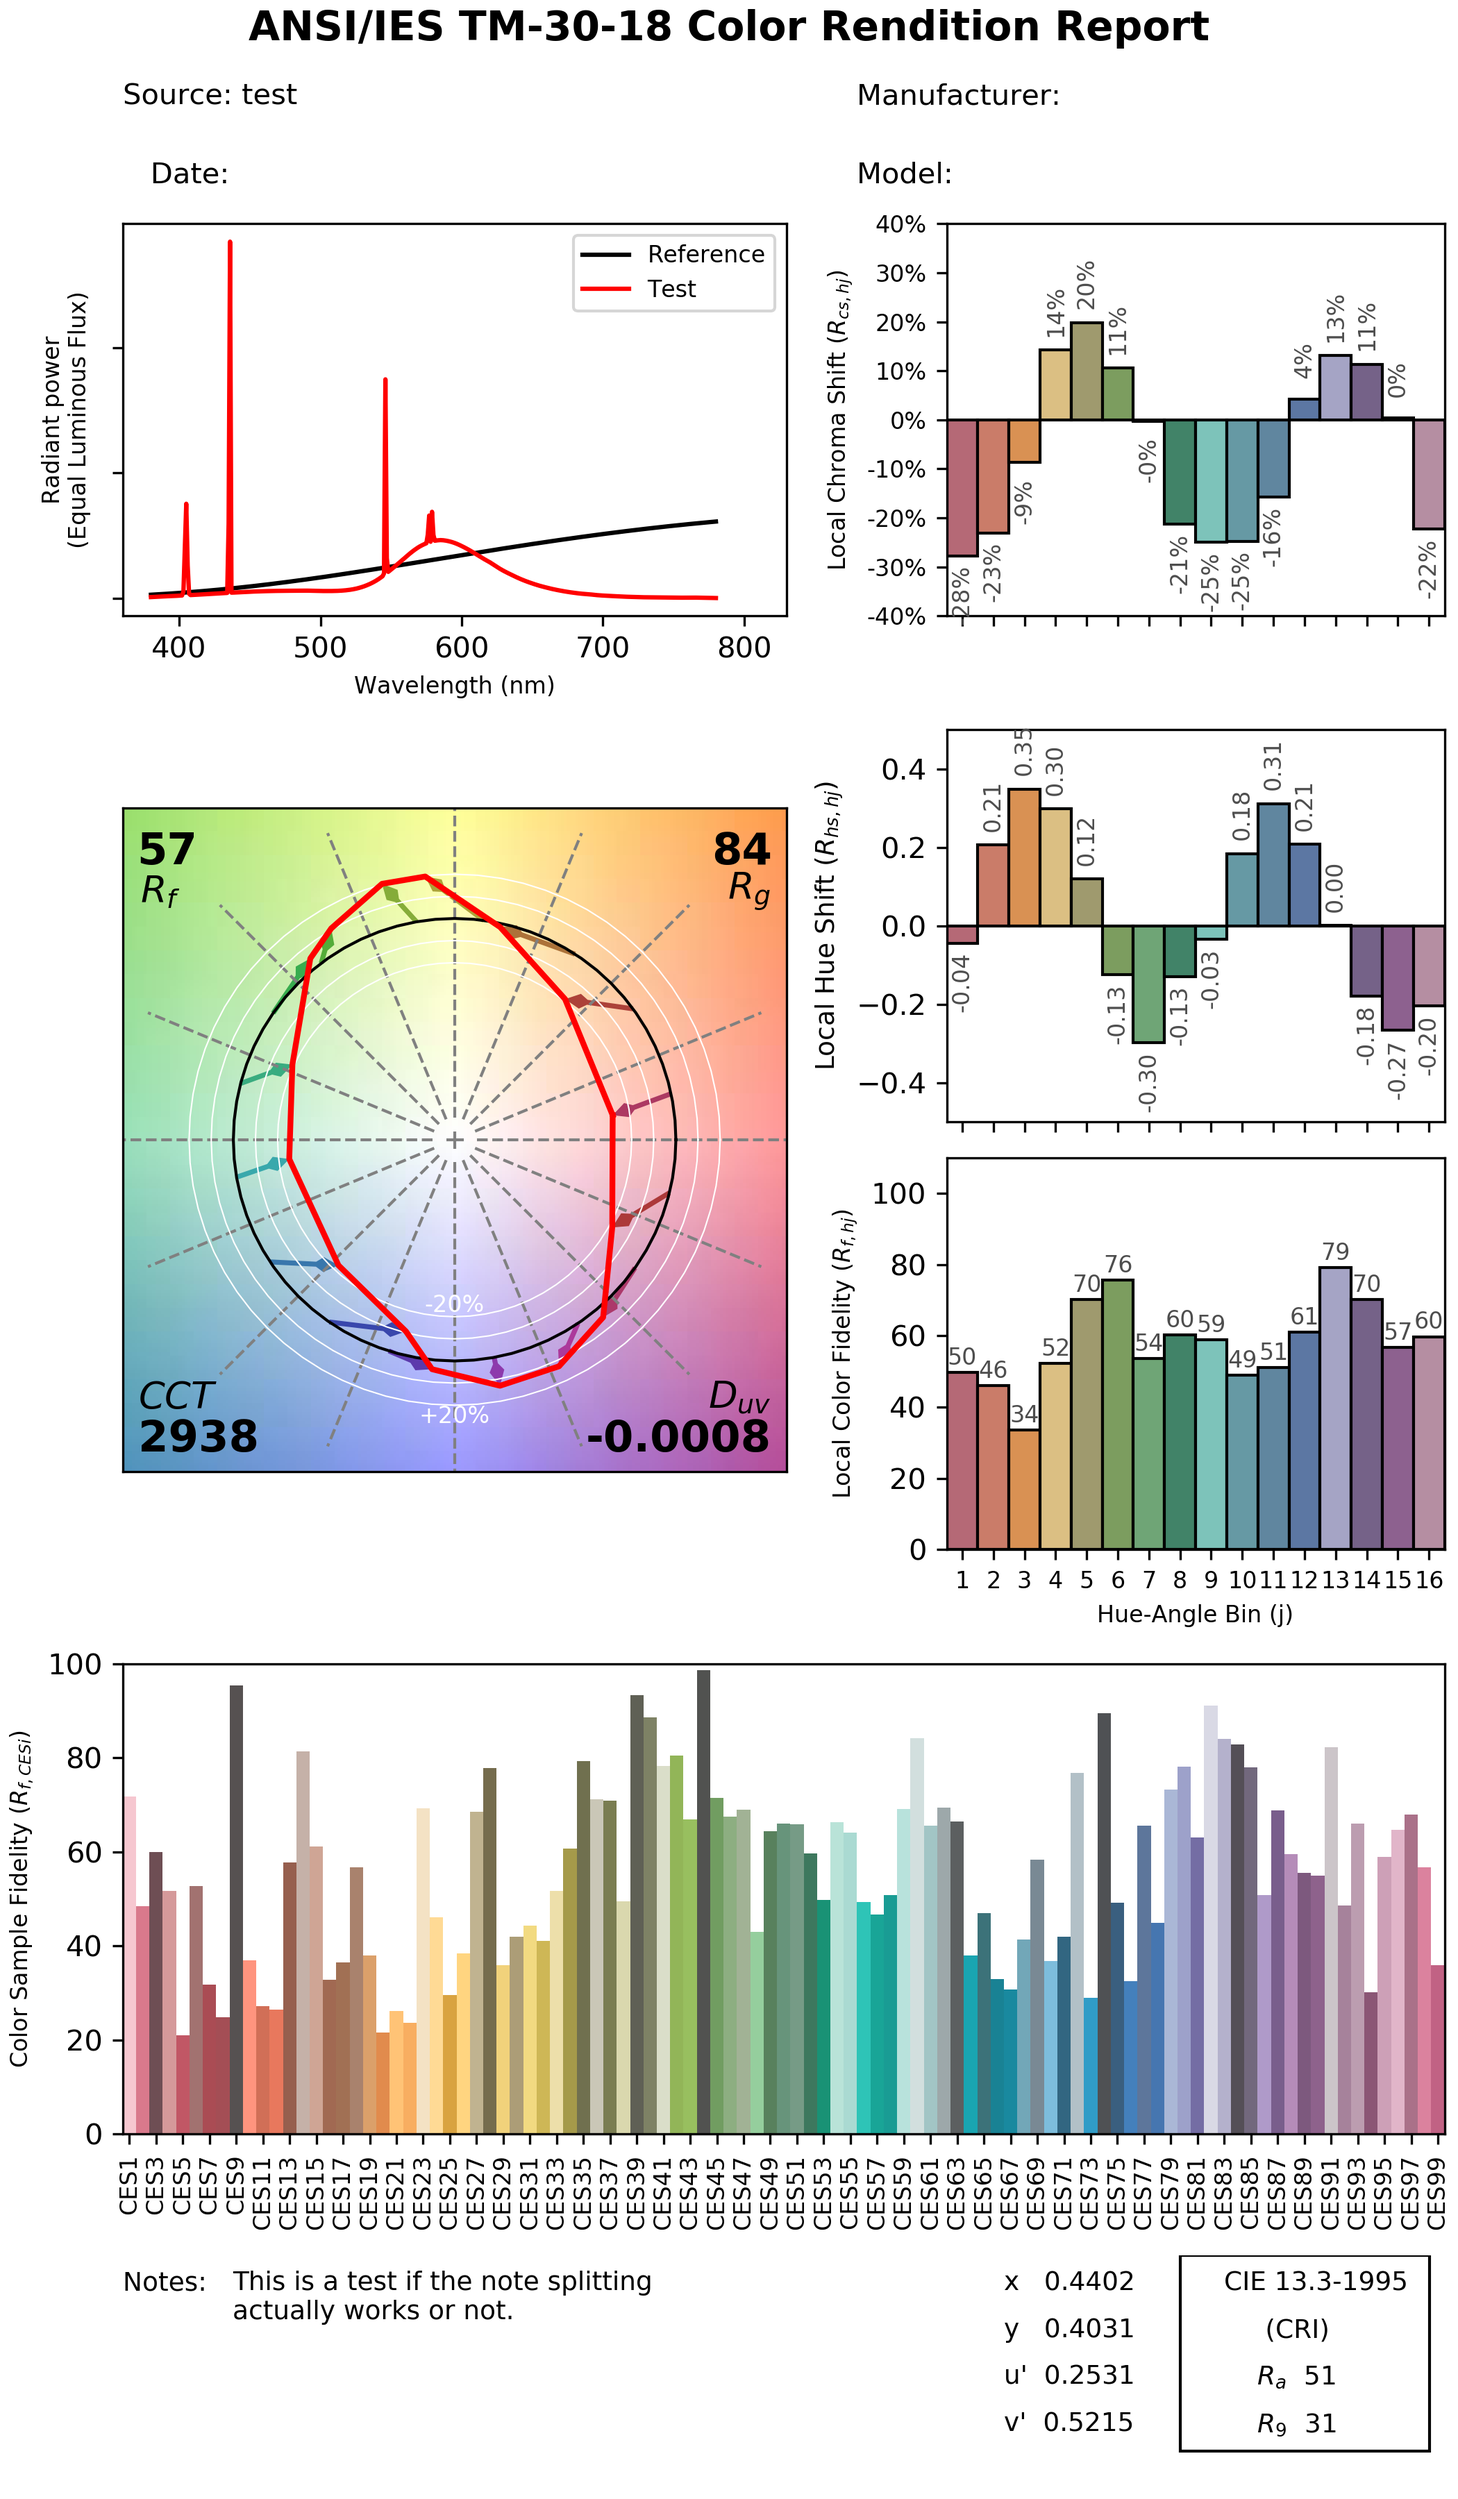
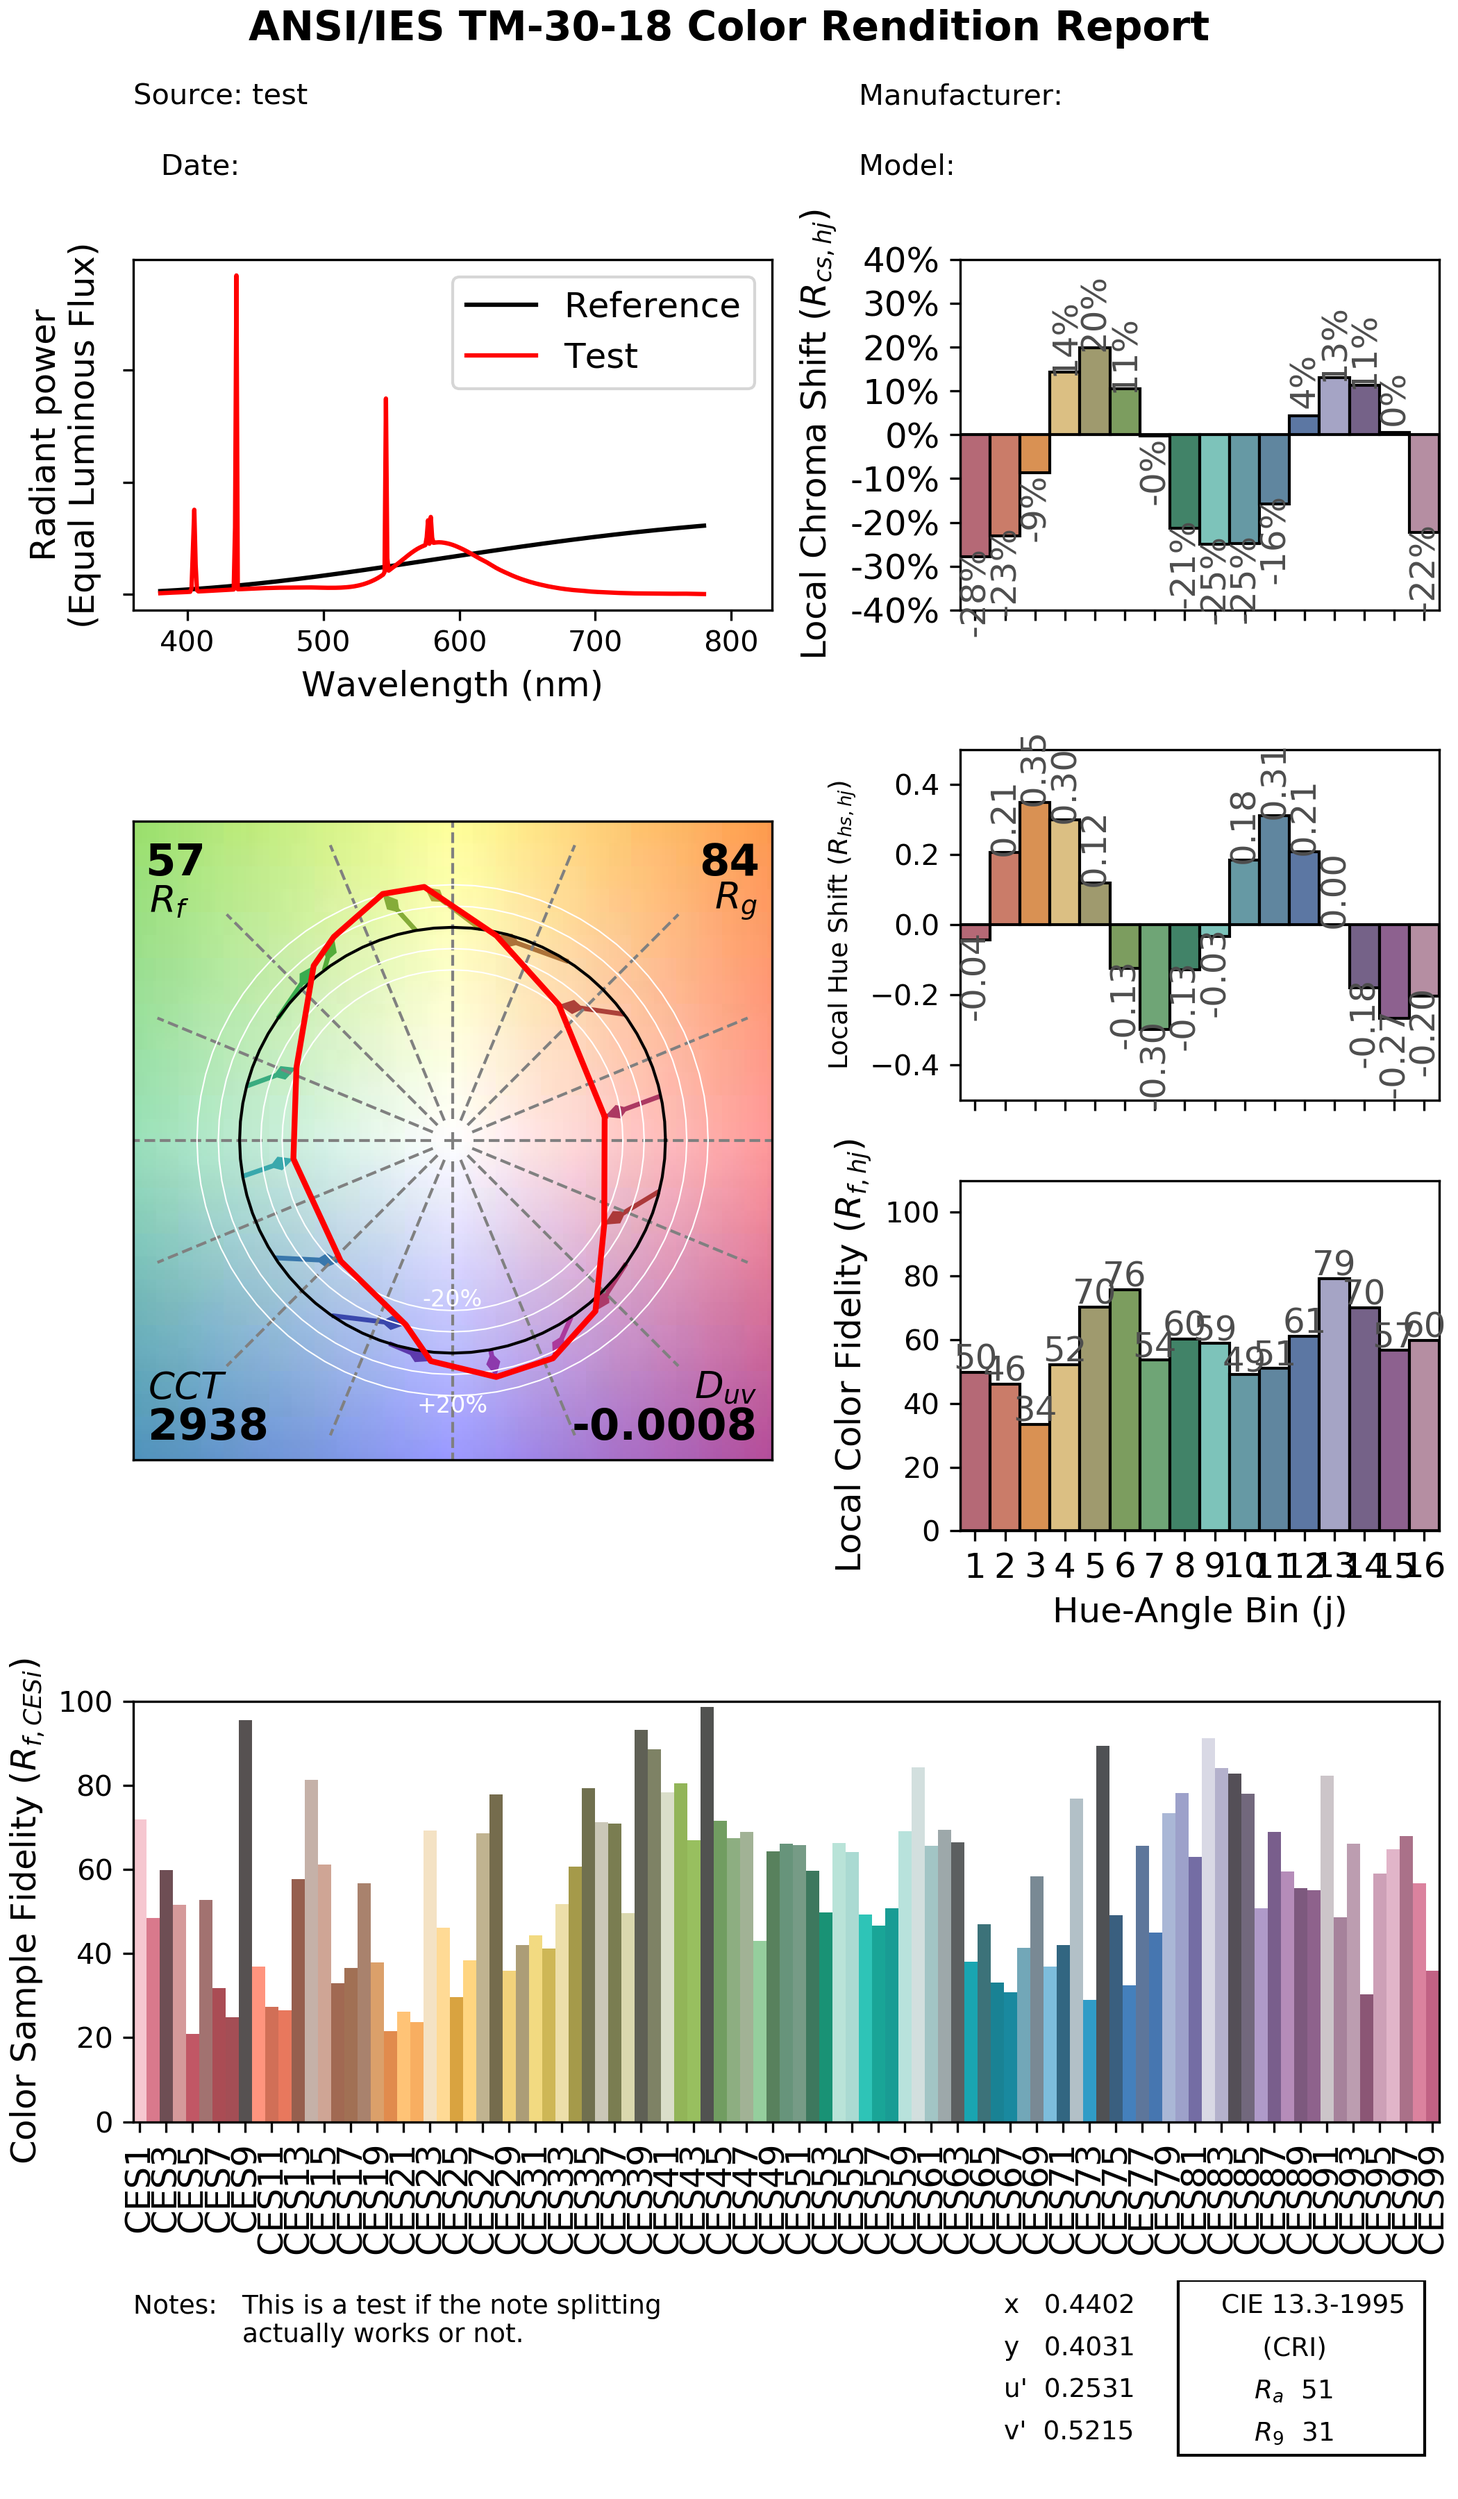
update plotters

diff --git a/luxpy/color/cri/iestm30/ansi_ies_tm30_graphics.py b/luxpy/color/cri/iestm30/ansi_ies_tm30_graphics.py
@@ -921,12 +921,12 @@ def plot_tm30_report(spd, cri_type = 'ies-tm30',
         _plot_tm30_report_bottom(f_ax_bottom, spd, 
                           notes = notes, max_len_notes_line = max_len_notes_line)
 
-    plot_tm30_spd(data, axh = f_ax_spd)
-    plot_tm30_cvg(data, axh = f_ax_cvg)
-    plot_tm30_Rfhj(data, axh = f_ax_fhj, y_offset = 2)
-    plot_tm30_Rcshj(data, axh = f_ax_cshj, xlabel = False, y_offset = 0.03)
-    plot_tm30_Rhshj(data, axh = f_ax_hshj, xlabel = False, y_offset = 0.05)
-    plot_tm30_Rfi(data, axh = f_ax_fi)
+    plot_tm30_spd(data, axh = f_ax_spd, font_size = font_size)
+    plot_tm30_cvg(data, axh = f_ax_cvg, font_size = font_size)
+    plot_tm30_Rfhj(data, axh = f_ax_fhj, y_offset = 2, font_size = font_size)
+    plot_tm30_Rcshj(data, axh = f_ax_cshj, xlabel = False, y_offset = 0.03, font_size = font_size)
+    plot_tm30_Rhshj(data, axh = f_ax_hshj, xlabel = False, y_offset = 0.05, font_size = font_size)
+    plot_tm30_Rfi(data, axh = f_ax_fi, font_size = font_size)
     fig.suptitle(suptitle, fontsize = 14, fontweight= 'bold')
     
     # Save to file:
